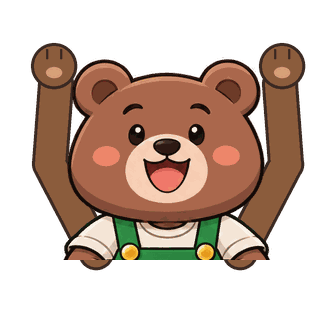
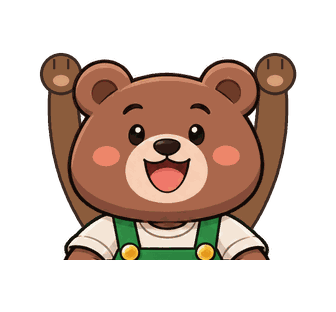
만세 그림 다시 그리기: 어깨에서 자연스럽게 올라가는 팔, 자리에 앉은 채로 만세
- 팔을 직선 두 개 대신 어깨 위에서 시작해 부드럽게 휘며 손 쪽으로 가늘어지는 곡선으로 그립니다.
- 만세할 때 그림을 위로 들어 올리지 않아, 공중에 뜨거나 아래 잘린 부분이 보이지 않습니다.
  대신 자리에 앉은 채로 좌우로 살짝 흔들립니다.

Claude-Session: https://claude.ai/code/session_016xcerVKMkEvuiimbfnFxun

diff --git a/site/src/main.js b/site/src/main.js
@@ -1007,9 +1007,11 @@ function drawTrain(sc, X, Y) {
     const cheering = ride.hands && !ride.fainted && cheer?.complete && cheer.naturalWidth;
     if (cheering) {
       ctx.save();
-      // 폴짝폴짝 뛰며 좌우로 살짝 흔들 (칸마다 박자를 조금씩 다르게)
-      ctx.translate(0, -4 - 2.5 * Math.abs(Math.sin(now * 9 + k * 0.9)));
-      ctx.rotate(0.07 * Math.sin(now * 11 + k * 2));
+      // 자리에 앉은 채로 좌우로 살짝 흔들 (엉덩이를 축으로, 칸마다 박자를 조금씩 다르게).
+      // 위로 들어 올리면 그림 아래 잘린 부분이 칸 위로 드러나므로 들어 올리지 않습니다.
+      ctx.translate(0, -12);
+      ctx.rotate(0.06 * Math.sin(now * 10 + k * 1.7));
+      ctx.translate(0, 12);
       const f = SIZE / CHEER_PAD.size;
       ctx.drawImage(cheer, -SIZE / 2 - CHEER_PAD.x * f, -47 - CHEER_PAD.top * f, cheer.naturalWidth * f, cheer.naturalHeight * f);
       ctx.restore();

diff --git a/scripts/make-cheer.py b/scripts/make-cheer.py
@@ -29,12 +29,21 @@ STYLE = {
 }
 
 
-def arm(draw, pts, width, color, outline_w):
-    """팔: 테두리 → 속 색 순서로 굵은 선과 관절의 원을 그립니다."""
-    for w, c in ((width + 2 * outline_w, OUTLINE), (width, color)):
-        draw.line(pts, fill=c, width=int(w), joint="curve")
-        for x, y in pts:
-            r = w / 2
+def bezier(p0, p1, p2, n=48):
+    """2차 베지어 곡선 위의 점들"""
+    out = []
+    for i in range(n + 1):
+        t = i / n
+        a, b, c = (1 - t) ** 2, 2 * (1 - t) * t, t * t
+        out.append((a * p0[0] + b * p1[0] + c * p2[0], a * p0[1] + b * p1[1] + c * p2[1], t))
+    return out
+
+
+def tube(draw, curve, r0, r1, color, outline):
+    """곡선을 따라 굵기가 r0 → r1로 줄어드는 팔. 테두리를 먼저 다 그린 뒤 속을 칠해 이음매가 안 보이게 합니다."""
+    for pad, c in ((outline, OUTLINE), (0, color)):
+        for x, y, t in curve:
+            r = r0 + (r1 - r0) * t + pad
             draw.ellipse((x - r, y - r, x + r, y + r), fill=c)
 
 
@@ -49,19 +58,18 @@ def make(cid):
 
     for side in (-1, 1):
         cx = W / 2
-        # 어깨(몸 뒤) → 팔꿈치(머리 옆) → 손(머리 위 바깥쪽)
-        shoulder = (cx + side * 72, PAD_TOP + 196)
-        elbow = (cx + side * 118, PAD_TOP + 108)
-        wrist = (cx + side * 112, PAD_TOP + 28)
-        pts = [(x * k, y * k) for x, y in (shoulder, elbow, wrist)]
-        arm(d, pts, 30 * k, s['sleeve'], o)
+        # 어깨(몸통 윗부분 안쪽, 몸에 가려짐) → 바깥으로 둥글게 → 머리 옆 위로 쭉
+        shoulder = (cx + side * 54, PAD_TOP + 182)
+        bend = (cx + side * 108, PAD_TOP + 118)
+        wrist = (cx + side * 104, PAD_TOP + 34)
+        curve = [(x * k, y * k, t) for x, y, t in bezier(shoulder, bend, wrist)]
+        tube(d, curve, 17 * k, 12.5 * k, s['sleeve'], o)
         if s['cuff']:
-            # 소매 끝 띠
-            wx, wy = wrist
-            arm(d, [((wx - side * 1) * k, (wy + 8) * k), (wx * k, (wy + 1) * k)], 31 * k, s['cuff'], o)
-        # 손
-        hx, hy = wrist[0] + side * 2, wrist[1] - 18
-        r = 19 if s['kind'] != 'paw' else 20
+            # 소매 끝 띠: 곡선의 마지막 부분
+            tube(d, curve[-7:], 14 * k, 13.5 * k, s['cuff'], o)
+        # 손: 손목보다 살짝 위
+        hx, hy = wrist[0] + side * 3, wrist[1] - 16
+        r = 17 if s['kind'] != 'paw' else 18
         d.ellipse(((hx - r) * k - o, (hy - r) * k - o, (hx + r) * k + o, (hy + r) * k + o), fill=OUTLINE)
         d.ellipse(((hx - r) * k, (hy - r) * k, (hx + r) * k, (hy + r) * k), fill=s['hand'])
         if s['kind'] == 'hand':
